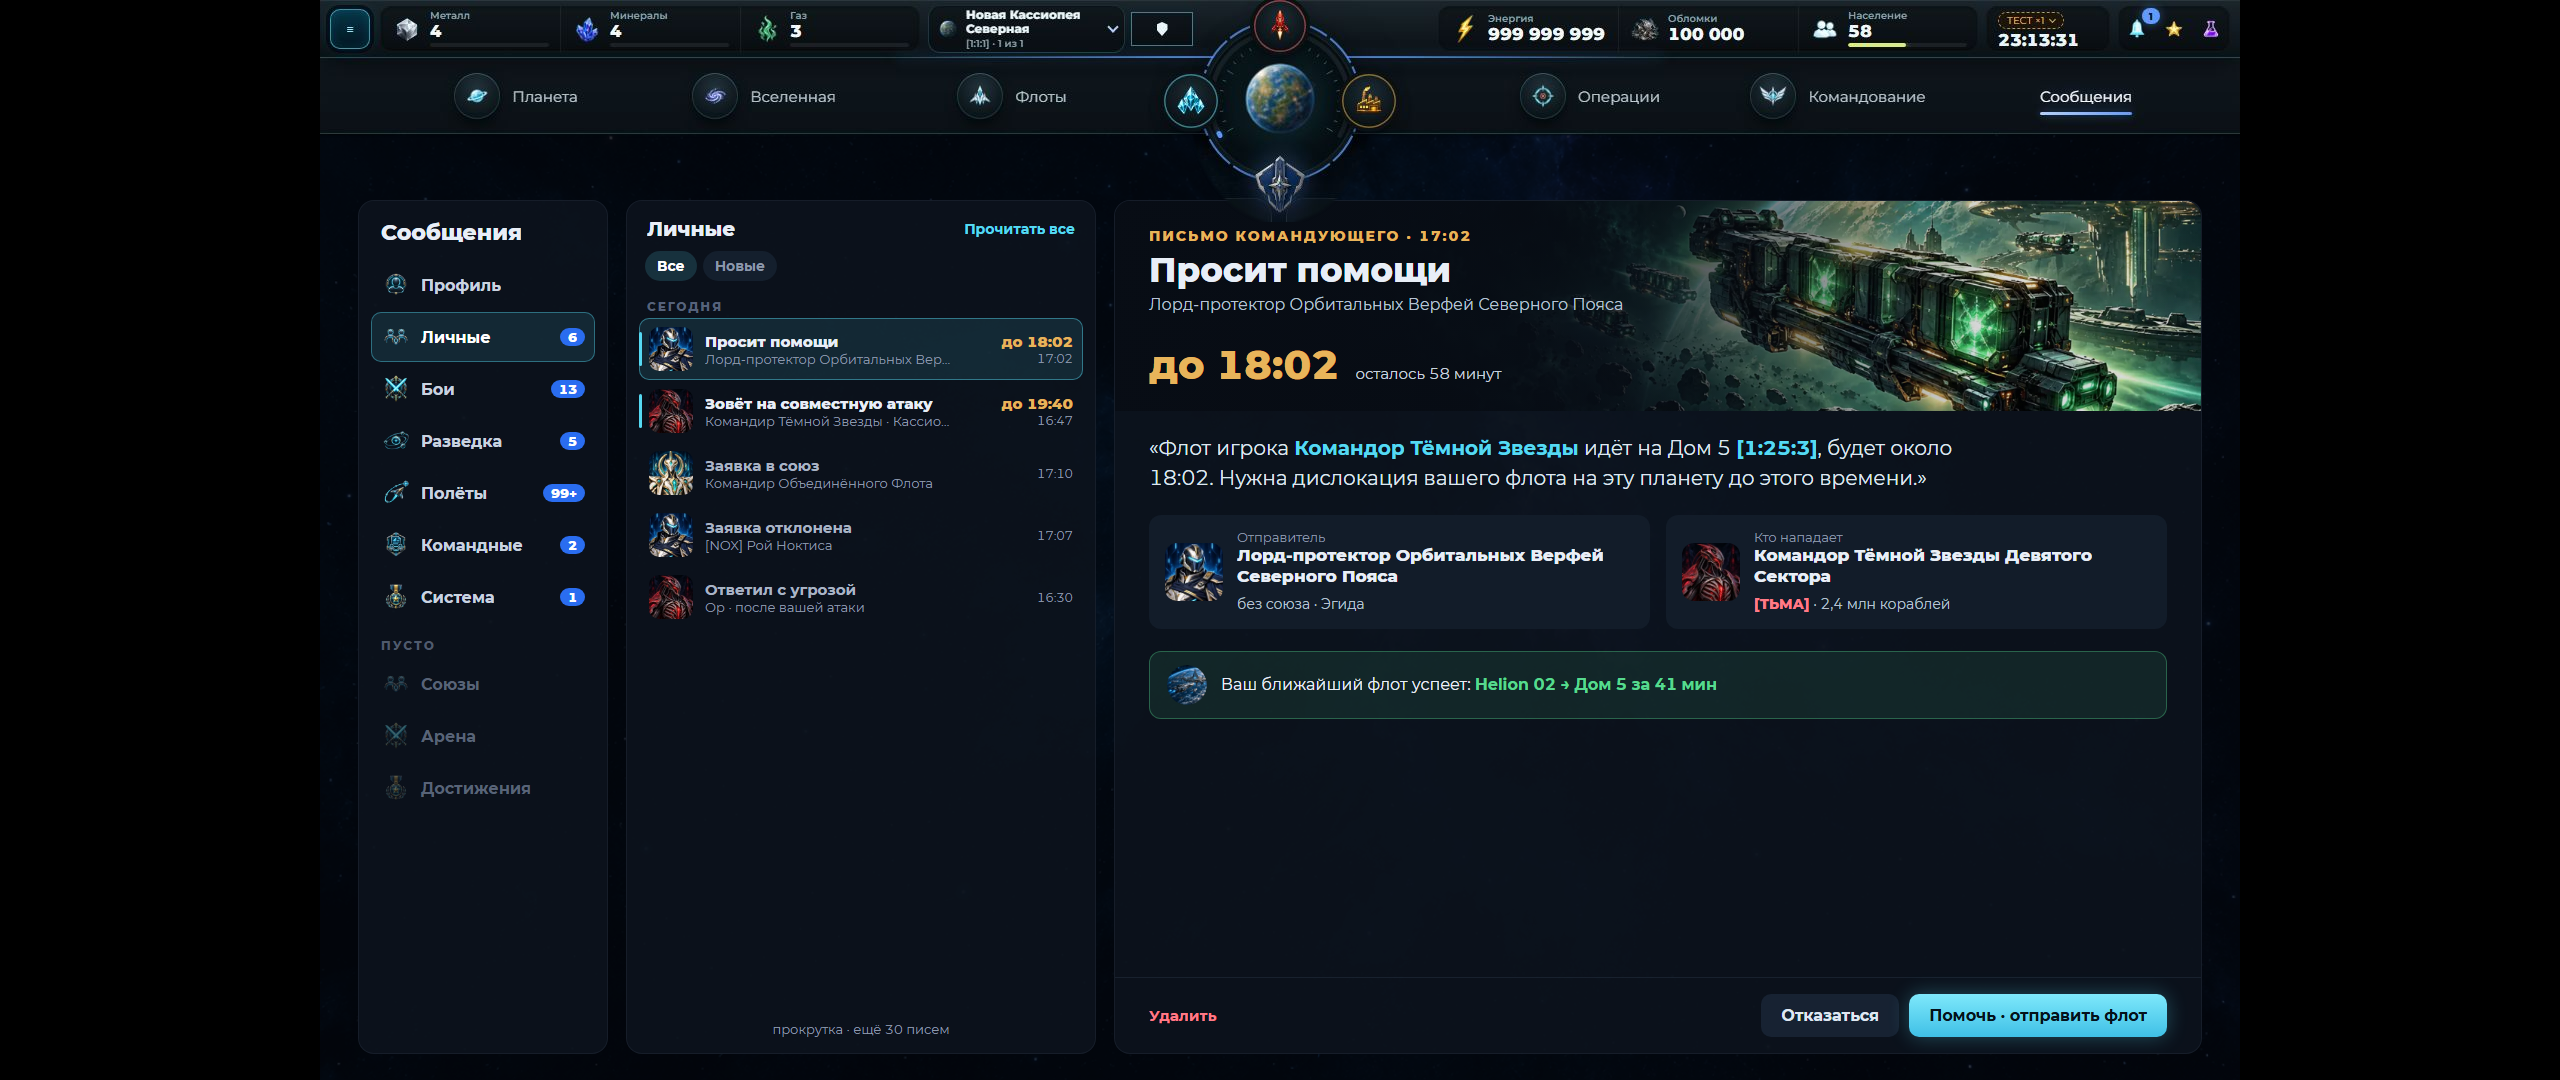
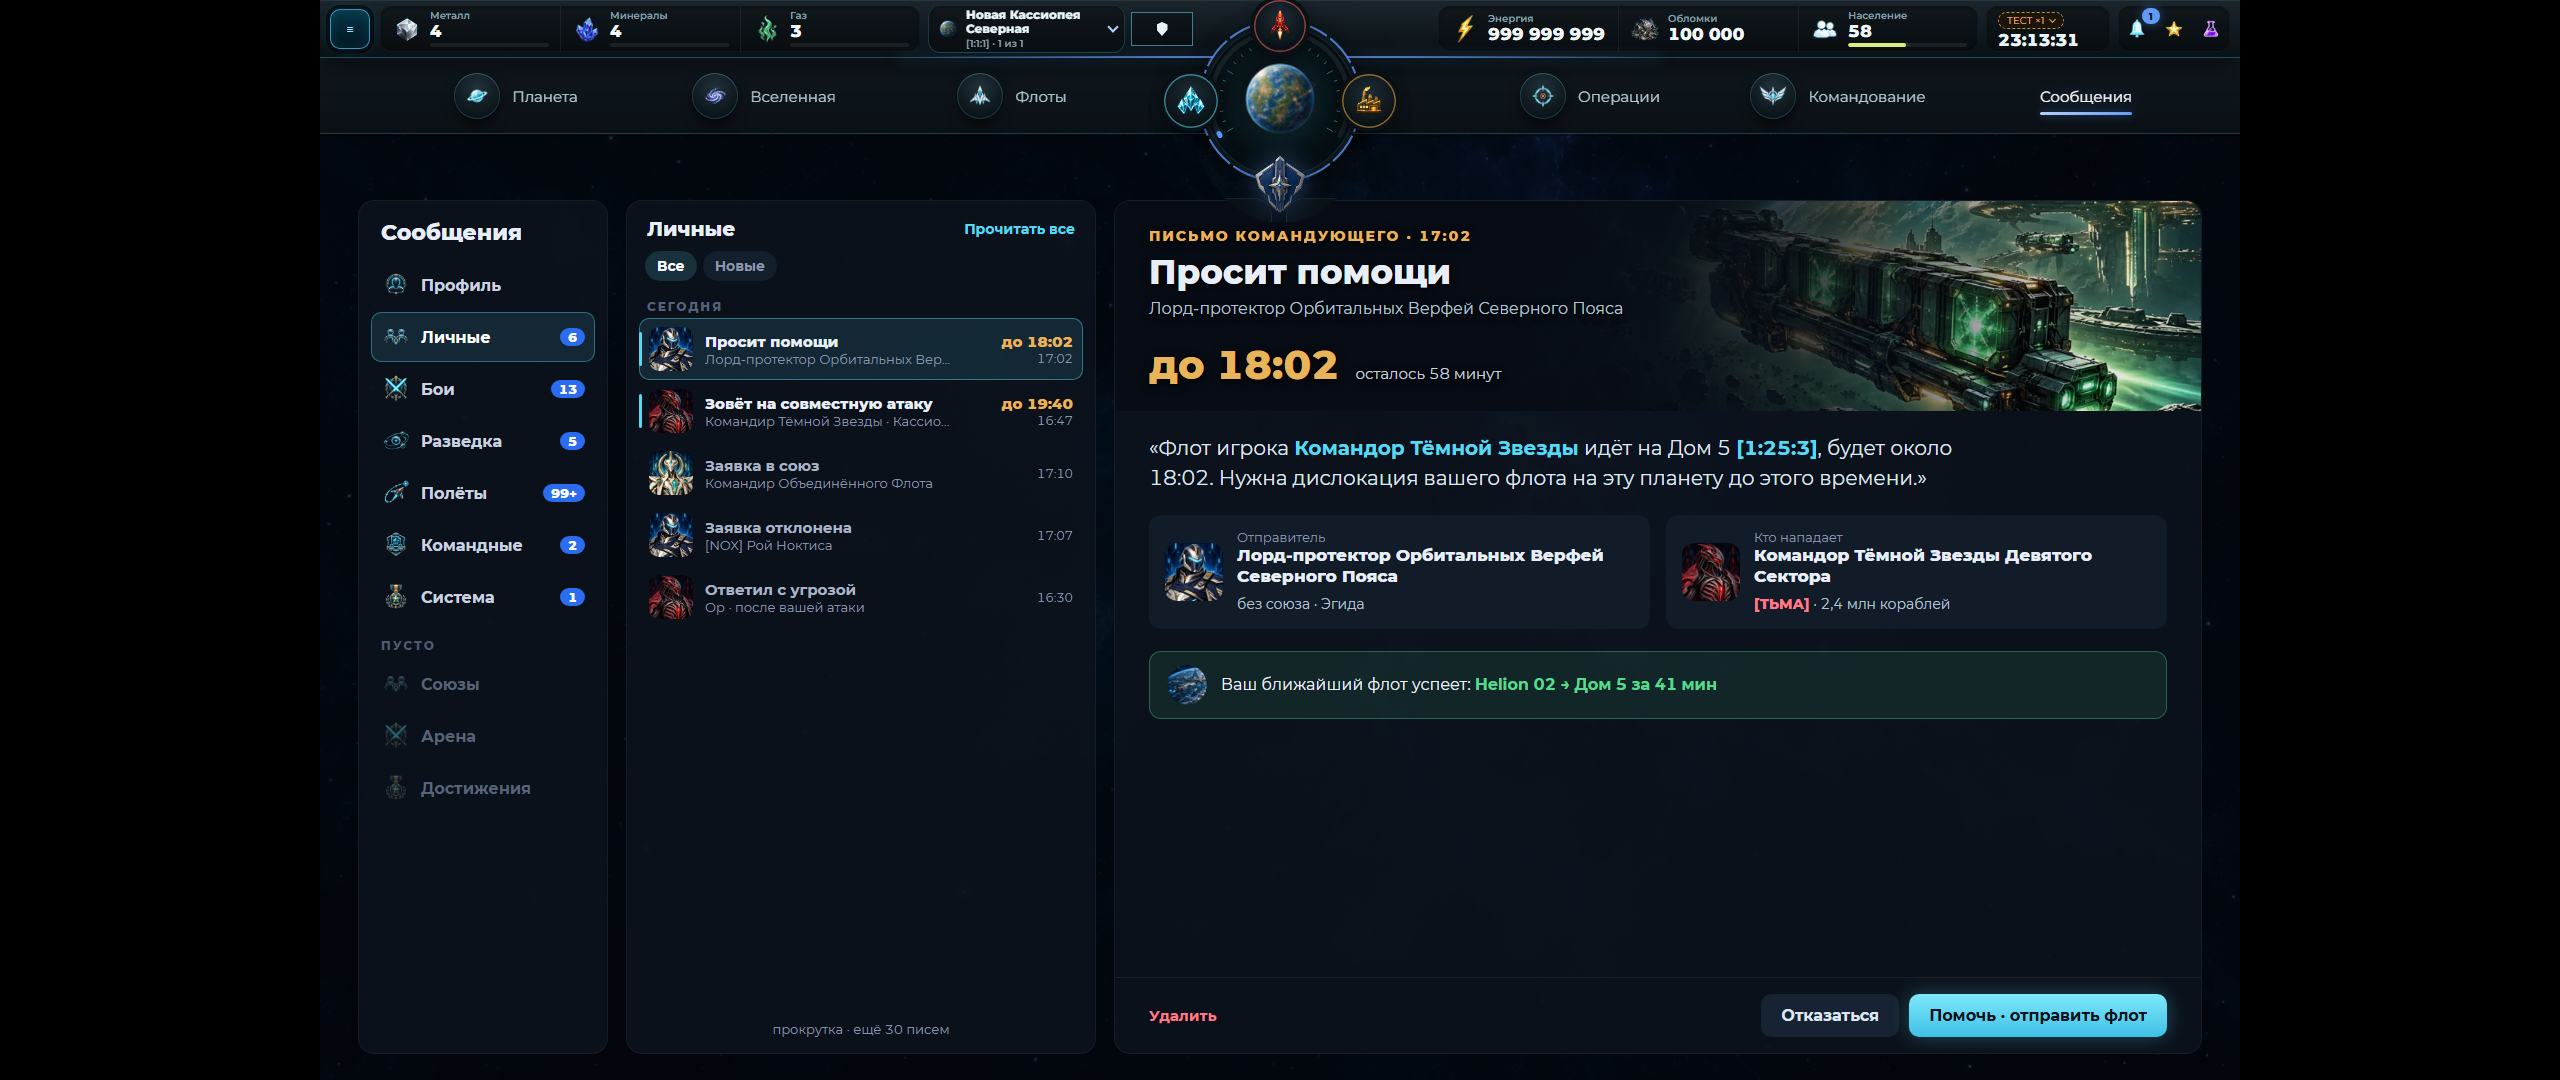
Concepts v2: owner's decision — Flights and Messages chosen, contrast fix over art

Changed region(s): [[0.4375, 0.1833, 0.7812, 0.3972]]

diff --git a/concepts/v2/r5/mail.html b/concepts/v2/r5/mail.html
@@ -30,13 +30,15 @@
 .lst .fade { margin-top: auto; text-align: center; font-size: 13px; color: var(--dim); padding-top: 8px; }
 /* report */
 .rep { left: 794px; right: 38px; display: flex; flex-direction: column; overflow: hidden; }
-.hero { position: relative; height: 210px; border-radius: 16px 16px 0 0; background-size: cover; background-position: right center; flex: none; }
-.hero::before { content: ''; position: absolute; inset: 0; background: linear-gradient(90deg, rgba(8,13,21,.98) 0, rgba(8,13,21,.85) 45%, rgba(8,13,21,.15) 80%); }
-.hero > div { position: relative; padding: 26px 34px; height: 100%; display: flex; flex-direction: column; }
+.hero { position: relative; min-height: 210px; border-radius: 16px 16px 0 0; background-size: cover; background-position: right center; flex: none; }
+.hero::before { content: ''; position: absolute; inset: 0; background: linear-gradient(90deg, rgba(8,13,21,1) 0, rgba(8,13,21,.97) 50%, rgba(8,13,21,.75) 66%, rgba(8,13,21,.1) 90%); }
+.hero > div { max-width: 66%; }
+.hero h2, .hero p, .hero .big, .hero .k { text-shadow: 0 2px 10px rgba(0,0,0,.9); }
+.hero > div { position: relative; padding: 26px 34px; min-height: 210px; display: flex; flex-direction: column; gap: 2px; }
 .hero .k { font-size: 14px; letter-spacing: 2px; text-transform: uppercase; font-weight: 800; color: var(--kc, var(--cyan)); }
 .hero h2 { font-size: 34px; font-weight: 800; line-height: 1.05; margin: 8px 0 6px; }
 .hero p { font-size: 16px; color: #b8c3d3; } .hero p i { font-style: normal; color: var(--cyan); font-weight: 700; }
-.hero .big { display: flex; align-items: baseline; gap: 16px; margin-top: auto; } .hero .big b { font-size: 40px; font-weight: 800; color: var(--bc, var(--green)); line-height: 1; white-space: nowrap; } .hero .big span { font-size: 15px; color: #c7d1de; max-width: 420px; }
+.hero .big { display: flex; align-items: baseline; gap: 16px; margin-top: auto; padding-top: 14px; } .hero .big b { font-size: 40px; font-weight: 800; color: var(--bc, var(--green)); line-height: 1; white-space: nowrap; } .hero .big span { font-size: 15px; color: #c7d1de; max-width: 420px; }
 .body { padding: 22px 34px; display: flex; flex-direction: column; gap: 22px; flex: 1; min-height: 0; }
 .h { font-size: 13px; letter-spacing: 2px; text-transform: uppercase; color: var(--dim); font-weight: 800; margin-bottom: 10px; }
 .two { display: grid; grid-template-columns: 1fr 1fr; gap: 16px; }

diff --git a/concepts/v2/r5/flights.html b/concepts/v2/r5/flights.html
@@ -38,7 +38,8 @@
 .more { position: absolute; left: 0; right: 0; bottom: 0; height: 60px; background: linear-gradient(transparent, rgba(3,6,12,.95)); display: flex; align-items: flex-end; justify-content: center; padding-bottom: 6px; font-size: 14px; color: var(--cyan); font-weight: 700; }
 /* the same big mission card the current Fleets screen already has, now for the picked flight */
 .ban { position: absolute; left: 52px; right: 52px; bottom: 22px; height: 176px; border-radius: 16px; overflow: hidden; background-size: cover; background-position: right center; }
-.ban::before { content: ''; position: absolute; inset: 0; background: linear-gradient(90deg, rgba(6,10,17,.97) 0, rgba(6,10,17,.88) 38%, rgba(6,10,17,.2) 70%); }
+.ban::before { content: ''; position: absolute; inset: 0; background: linear-gradient(90deg, rgba(6,10,17,1) 0, rgba(6,10,17,.95) 45%, rgba(6,10,17,.7) 62%, rgba(6,10,17,.15) 85%); }
+.ban h2, .ban p, .ban .k, .ban .stats { text-shadow: 0 2px 10px rgba(0,0,0,.9); }
 .ban > div { position: relative; padding: 22px 34px; display: grid; grid-template-columns: auto 1fr auto; gap: 40px; align-items: end; height: 100%; }
 .ban .k { font-size: 14px; letter-spacing: 2px; text-transform: uppercase; font-weight: 800; color: #ff7a86; }
 .ban h2 { font-size: 42px; font-weight: 800; line-height: 1.05; margin: 4px 0 8px; } .ban h2 em { font-style: normal; color: var(--red); }

diff --git a/concepts/v2/DECISIONS.md b/concepts/v2/DECISIONS.md
@@ -1,0 +1,46 @@
+# Решения владельца по концептам v2 (12.11.2026)
+
+Владелец выбрал **только два экрана**: «Флоты → Рейсы и миссии» и «Сообщения». Вселенная из этого цикла **не принята** ни в одном варианте (все раунды отклонены), её не трогать.
+
+Правило от владельца на этих экранах: **никакого белого текста на светлом арте**. Текст над артом всегда на тёмной подложке (градиент до ~65% ширины + тень текста). В макетах это уже исправлено.
+
+Разрешение владельца: координатор может запустить ветку, чтобы перенести эти два концепта в игру. Старт после 23:00 (обновление лимитов) или сейчас, но следить за лимитами и перезапустить в 23:00.
+
+## 1. Рейсы и миссии — `r5/flights.html`
+
+![Рейсы](shots/1280x720/r5-flights.png)
+
+- Место: Флоты → «Отправка флота», вместо выпадающего «Все рейсы ▾» под ним. Шапка и полоса разделов Флотов остаются как сейчас.
+- Порядок: сверху блок **«Атаки на ваши планеты»** (красный, крупнее), ниже **«Ваши миссии» по времени отправки**.
+- Одна строка = одна карточка: арт миссии (баннер), название и «отправлен в …»; откуда → куда (планета, имя, координаты; длинное имя переносится на 2 строки, не режется); «сейчас» (летит туда / на месте / возвращается / летит на вас) с полосой хода; сколько осталось и во сколько прибытие/возврат/удар; корабли (число + 2 картинки + «+N»); груз (иконки ресурсов) или «без груза»; кнопки «Отозвать», «Повторить», у атак «Увести флот».
+- Сверху справа: плашка «Атак на вас N · ближайшая mm:ss», «Шпионские отчёты», «Отправить флот».
+- Внизу большая карточка выбранного рейса в стиле карточки миссии из «Отправки флота»: баннер миссии, крупный заголовок, 3 цифры, кнопки («Позвать союз», «Увести флот» для атаки; «Отозвать/Повторить» для своих).
+- Пусто: картинка `empty-flights`, «Сейчас ни один флот не летит», кнопка «Отправить флот».
+- Длинный список прокручивается внутри, без страниц.
+
+## 2. Сообщения — `r5/mail.html?sec=battle|spy|flights|letters|empty`
+
+| Бой | Разведка |
+|---|---|
+| ![Бой](shots/1280x720/r5-mail-battle.png) | ![Разведка](shots/1280x720/r5-mail-spy.png) |
+| Полёты | Письмо бота |
+| ![Полёты](shots/1280x720/r5-mail-flights.png) | ![Письмо](shots/1280x720/r5-mail-letters.png) |
+
+![Пустой раздел](shots/1280x720/r5-mail-empty.png)
+
+- Три колонки, как сейчас: разделы, список, отчёт; отчёту отдана большая часть ширины.
+- **Разделы:** с письмами сверху со счётчиками; пустые внизу серыми под «ПУСТО».
+- **Список:** без галочек и без страниц (прокрутка, «Прочитать все» сверху, фильтры «Все / Новые / Сохранённые»). Строка = картинка (портрет / планета / иконка миссии) + что случилось одной фразой («Победа при атаке», «На вас напали», «Газ добыт», «Просит помощи») + кто/где + справа одно число в цвете итога и время. Непрочитанные — полоса слева.
+- **Отчёт:** сверху арт-шапка с видом отчёта и временем, заголовком и главным числом с расшифровкой:
+  - бой: «+312 млрд» = унесли − потери; кто против кого (имя, союз, планета, координаты); добыча и обломки карточками; таблица потерь по типам у обеих сторон (было / потеряно / осталось); кнопки «Ход боя», «Сохранить бой», «Напасть снова», «Собрать обломки · время»;
+  - разведка: «можно унести за налёт» + сколько нужно транспортов; красная плашка риска («их флот сильнее в N раз»); ресурсы, флот, оборона, постройки; «Ещё зонд», «Моделировать бой», «Атаковать»;
+  - полёты: добыча крупно, что осталось на объекте, откуда и каким флотом; «Повторить добычу · время»;
+  - письмо бота: срок ответа крупно, сама просьба, отправитель и нападающий, плашка «ваш ближайший флот успеет»; «Отказаться», «Помочь · отправить флот»;
+  - пустой раздел: картинка и одна строка.
+- Числа никогда не переносятся посреди цифр (короткая запись «987,7 млрд»).
+
+## Чего нет в макетах (решить в PR)
+- Разделы Профиль, Система, Командные, Союзы отдельно не рисовались: применить тот же каркас (арт-шапка + главное число + карточки).
+- Числа в макетах условные (в моках разведки сумма ресурсов и «можно унести» не сведены).
+
+Источники: снимки текущей игры `current/` (Actions run 43265172543), ответы владельца в сессии 12.11.
